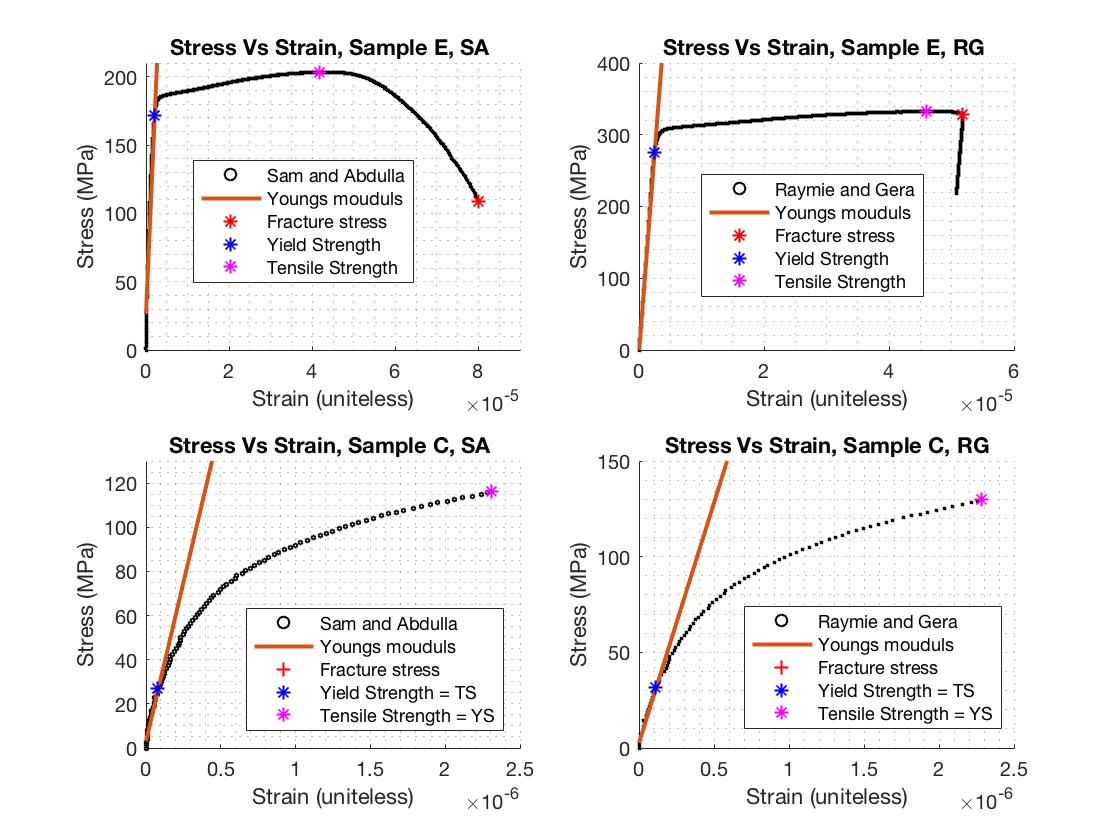
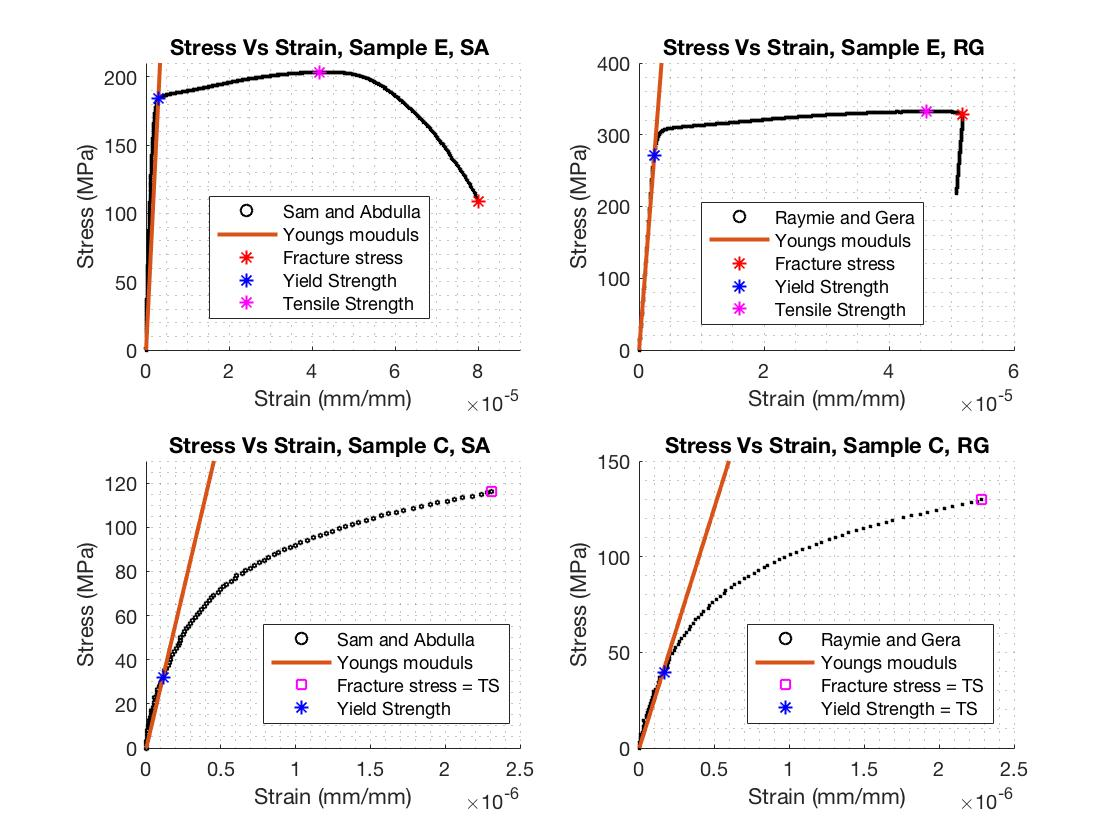
Majore changes, adjusted Elasticity line and re-calcluated the YS, update the graphs

diff --git a/TensileLab.m b/TensileLab.m
@@ -216,37 +216,43 @@ TS_RG_C = max(Stress_RG_C);
 
 % BEST LINE EQUATIONS;
 
-Youngs_SA_E = @(x) 6.891e+07 *(x - 0.002E-5) + 28.03 ;
-Youngs_SA_C = @(x) 2.876e+08 *(x - 0.002E-6) + 3.565 ;
-Youngs_RG_E = @(x) 1.115e+08 *(x - 0.002E-5) + -2.104;
-Youngs_RG_C = @(x) 2.509e+08 *(x - 0.002E-6) +  3.17 ;
 
+Youngs_SA_E = @(x) 6.238e+07 *(x - 0.002E-5); %+ 38.84 ;
+Youngs_SA_C = @(x) 2.876e+08 *(x - 0.002E-6); %+ 3.565 ;
+Youngs_RG_E = @(x) 1.115e+08 *(x - 0.002E-5); %+ -2.104;
+Youngs_RG_C = @(x) 2.509e+08 *(x - 0.002E-6); %+  3.17 ;
+
+YM_SA_E = 6.238e+07;
+YM_SA_C = 2.876e+08;
+YM_RG_E = 1.115e+08;
+YM_RG_C = 2.509e+08;
 
 % Determine the Y.S (where the offeseted Youngs moudule by 0.2% intersect
 % the data point we have): we will determine them manually.
 
-% sample E Of RG has YS falls between 172.05 and 170.86 Mpa.
-% This corresponds to indice 122 123
+% sample E Of SA has YS falls between 183.52 and 183.869 Mpa.
+% This corresponds to indice 137 138
 
-YS_SA_E = median([Stress_SA_E(122),Stress_SA_E(123)]);
-
-
-% sample C Of SA has YS falls between 26.568 and 27.77 Mpa.
-% This corresponds to indice 23 and 24
-
-YS_SA_C = median([Stress_SA_C(23),Stress_SA_C(24)]);
+YS_SA_E = median([Stress_SA_E(137),Stress_SA_E(138)]);
 
 
+% sample C Of SA has YS falls between 31.399 and 32.582 Mpa.
+% This corresponds to indice 27 and 28
 
-% sample E Of RG has YS falls between 274.14 and 276.15 Mpa.
-% This corresponds to indice 132 and 133
-YS_RG_E = median([Stress_RG_E(132),Stress_RG_E(133)]);
+YS_SA_C = median([Stress_SA_C(27),Stress_SA_C(28)]);
 
 
 
-% sample C Of RG has YS falls between 30.6383 and 32.277 Mpa.
-% This corresponds to indice 22 and 23
-YS_RG_C = median([Stress_RG_C(22),Stress_RG_C(23)]);
+% sample E Of RG has YS falls between 269.76 and 271.87 Mpa.
+% This corresponds to indice 130 and 131
+
+YS_RG_E = median([Stress_RG_E(130),Stress_RG_E(131)]);
+
+
+
+% sample C Of RG has YS falls between 38.4469 and 39.97649 Mpa.
+% This corresponds to indice 27 and 28
+YS_RG_C = median([Stress_RG_C(27),Stress_RG_C(28)]);
 
 
 
@@ -276,14 +282,14 @@ set(linefit1,'LineWidth',2);
 hold on
 plot(Strain_SA_E(length(Strain_SA_E)), Stress_SA_E(length(Strain_SA_E)), 'r*')
 hold on
-plot(Strain_SA_E(122) , YS_SA_E, '*b')
+plot(Strain_SA_E(138) , YS_SA_E, '*b')
 hold on
 plot(Strain_SA_E(find(Stress_SA_E==TS_SA_E)), TS_SA_E, '*m')
 hold off
 
 
 grid minor
-xlabel('Strain (uniteless)');
+xlabel('Strain (mm/mm)');
 ylabel('Stress (MPa)');
 title ('Stress Vs Strain, Sample E, SA ');
 legend('Sam and Abdulla','Youngs mouduls','Fracture stress','Yield Strength','Tensile Strength');
@@ -309,14 +315,14 @@ set(linefit2,'LineWidth',2);
 hold on
 plot( Strain_RG_E(492), FS_RG_E, 'r*')
 hold on
-plot(Strain_RG_E(132) , YS_RG_E, '*b')
+plot(Strain_RG_E(131) , YS_RG_E, '*b')
 hold on
 plot(Strain_RG_E(find(Stress_RG_E==TS_RG_E)), TS_RG_E, '*m')
 
 hold off
 
 grid minor
-xlabel('Strain (uniteless)');
+xlabel('Strain (mm/mm)');
 ylabel('Stress (MPa)');
 title ('Stress Vs Strain, Sample E, RG ');
 legend('Raymie and Gera','Youngs mouduls', 'Fracture stress','Yield Strength','Tensile Strength');
@@ -337,22 +343,19 @@ linefit3 = ezplot(Youngs_SA_C,[ min(Strain_SA_C) max(Strain_SA_C) min(Stress_SA_
 set(linefit3,'LineWidth',2);
 
 hold on
-plot(Strain_SA_C(length(Strain_SA_C)), FS_SA_C , 'r+')
+plot(Strain_SA_C(length(Strain_SA_C)), FS_SA_C , 'ms')
 
 hold on
-plot(Strain_SA_C(23) , YS_SA_C, '*b')
-
-hold on
-TS = plot(Strain_SA_C(find(Stress_SA_C==TS_SA_C)), TS_SA_C, '*m')
+plot(Strain_SA_C(28) , YS_SA_C, '*b')
 
 
 hold off
 
 grid minor
-xlabel('Strain (uniteless)');
+xlabel('Strain (mm/mm)');
 ylabel('Stress (MPa)')
 title ('Stress Vs Strain, Sample C, SA ');
-legend('Sam and Abdulla','Youngs mouduls','Fracture stress','Yield Strength = TS','Tensile Strength = YS');
+legend('Sam and Abdulla','Youngs mouduls','Fracture stress = TS','Yield Strength');
 
 
 xlim([0 0.25e-5]);
@@ -370,19 +373,17 @@ linefit4 = ezplot(Youngs_RG_C,[ min(Strain_RG_C) max(Strain_RG_C) min(Stress_RG_
 set(linefit4,'LineWidth',2);
 
 hold on
-plot(Strain_RG_C(length(Strain_RG_C)), FS_RG_C , 'r+')
+plot(Strain_RG_C(length(Strain_RG_C)), FS_RG_C , 'sm')
 
 hold on
-plot(Strain_RG_C(22) , YS_RG_C, '*b')
+plot(Strain_RG_C(28) , YS_RG_C, '*b')
 
-hold on
-TS = plot(Strain_RG_C(find(Stress_RG_C==TS_RG_C)), TS_RG_C, '*m')
-
+hold off
 
 
-legend('Raymie and Gera','Youngs mouduls','Fracture stress','Yield Strength = TS','Tensile Strength = YS');
+legend('Raymie and Gera','Youngs mouduls','Fracture stress = TS','Yield Strength = TS');
 grid minor
-xlabel('Strain (uniteless)');
+xlabel('Strain (mm/mm)');
 ylabel('Stress (MPa)');
 title ('Stress Vs Strain, Sample C, RG');
 
